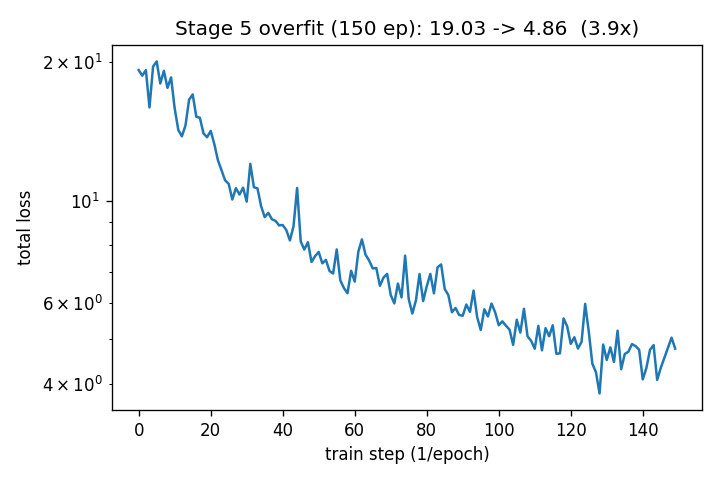
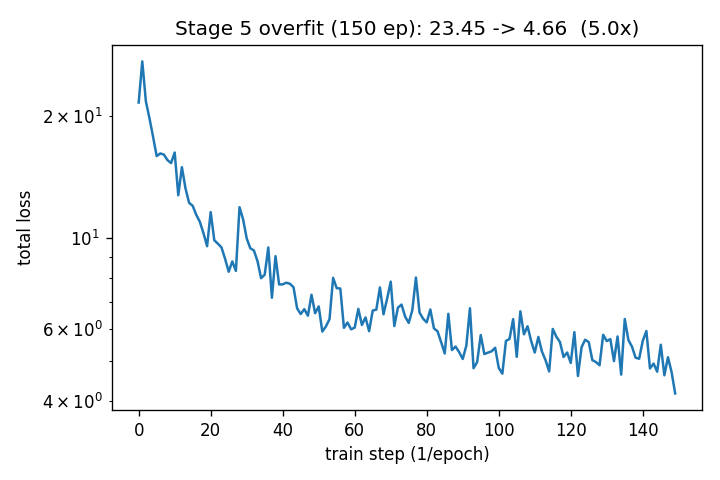
fix(stage5): address code-review (config-modifier test, tighter grad gate, SLURM bookkeeping)
- register.py: patched modifier now replicates the stock SLURM_JOB_ID bookkeeping
  that the early-return branch had dropped (Stage-6 SLURM logging/ckpt naming).
- smoke_health.py: tighten grad check — separate the deterministic path (must get
  grad) from SimOTA positive-only head branches, and enforce >=1 positive branch
  alive (robust to RNG drift; catches a total cls/box disconnection) instead of a
  fragile hardcoded count.
- smoke_overfit.py: default 150 epochs (the value that reliably reaches >=3x) and
  restore the assert reduction>=3.0 gate so automation catches a learning regression.
- test_register.py: add a CPU-fast test that composes the real train config and
  asserts the modifier injects in_res_hw=(256,320) and head.num_classes=2 (the
  Stage-6 wiring seam). Suite now 21 passed.
- Stage_05 doc: frame overfit as the ~4-5x range across runs (stochastic init).

diff --git a/code/event_ssm/proofs/smoke_health.py b/code/event_ssm/proofs/smoke_health.py
@@ -63,14 +63,21 @@ sel = {k: v[-1] for k, v in feats.items() if k in (2, 3, 4)}     # last window: 
 _, losses = model.forward_detect(backbone_features=sel, targets=tgt)
 _loss(losses).backward()
 real_missing, head_pos_missing, nan = [], [], []
+n_pos_only = 0
 for n_, p in model.named_parameters():
     if not p.requires_grad or n_.startswith(EXCLUDE):
         continue
+    if n_.startswith(HEAD_POS_ONLY):
+        n_pos_only += 1
     if p.grad is not None and not torch.isfinite(p.grad).all():
         nan.append(n_)
     if p.grad is None or p.grad.abs().max() == 0:
         (head_pos_missing if n_.startswith(HEAD_POS_ONLY) else real_missing).append(n_)
 grad_ok = not real_missing and not nan      # positive-only head branches may legitimately be empty
+# Robustness (not RNG-fragile): tolerate *some* positive-only branches being grad-less on an
+# unmatched FPN level, but require at least one to be alive -- if EVERY positive-only branch is
+# grad-less, the cls/box positive path is genuinely broken (no level ever matched), which IS a fault.
+pos_path_alive = len(head_pos_missing) < n_pos_only
 model.zero_grad(set_to_none=True)
 
 # ---------- VRAM sweep ----------
@@ -112,8 +119,8 @@ lines = [
     "| test | result | notes |", "|---|---|---|",
     f"| gradient flow (deterministic path) | {'PASS' if grad_ok else 'FAIL'} | "
     f"real-missing={len(real_missing)} nan={len(nan)} (excl. stage-1 temporal[0], unused by FPN) |",
-    f"| SimOTA pos-only head branches w/o grad | {len(head_pos_missing)} | "
-    f"expected (data-dependent per-level matching), not a fault |",
+    f"| SimOTA pos-only head branches w/o grad | {len(head_pos_missing)}/{n_pos_only} | "
+    f"expected (data-dependent per-level matching); >=1 alive ({'PASS' if pos_path_alive else 'FAIL'}) |",
     f"| VRAM @ bs1/bs2/bs4 | {vram[1]:.2f}/{vram[2]:.2f}/{vram[4]:.2f} GB | target <10GB @ bs4 |",
     f"| eval step latency | {mean:.2f} +/- {std:.2f} ms | S5-RVT ~12 ms/window |",
     f"| max throughput | {1000/mean:.0f} Hz | window dt=50ms -> need <50ms |",
@@ -125,4 +132,6 @@ if nan: lines.append(f"\nNAN GRAD ({len(nan)}): " + ", ".join(nan[:10]))
 (OUT / "smoke_results.md").write_text("\n".join(lines) + "\n")
 print("\n".join(lines)); print("wrote", OUT / "smoke_results.md")
 assert grad_ok, f"grad-flow FAIL (deterministic path): real_missing={real_missing[:5]} nan={nan[:5]}"
+assert pos_path_alive, (f"SimOTA positive path broken: all {n_pos_only} positive-only head branches "
+                        f"grad-less (no FPN level matched a positive)")
 assert vram[4] < 10.0, f"VRAM @ bs4 = {vram[4]:.2f}GB exceeds 10GB"

diff --git a/code/event_ssm/tests/test_register.py b/code/event_ssm/tests/test_register.py
@@ -43,3 +43,17 @@ def test_resnet_mamba_config_present_and_valid():
     assert cfg.model.backbone.input_channels == 20
     assert list(cfg.model.fpn.in_stages) == [2, 3, 4]
     assert cfg.model.head.name == "YoloX"
+
+
+def test_config_modifier_injects_hw_and_num_classes():
+    """The patched dynamically_modify_train_config must, for the ResNetMamba backbone on gen1, set
+    backbone.in_res_hw to the multiple-of-32 padded resolution (240x304 -> 256x320) and head.num_classes
+    to 2 -- the Stage-6 wiring seam the stock modifier (MaxViTRNN-only) would NotImplementedError on.
+    Composes the real RVT train config (CPU; no GPU/forward), so it exercises the full Hydra path."""
+    from event_ssm.integration.smoke_harness import compose_smoke_config
+    cfg = compose_smoke_config(max_epochs=1, batch_size=2)
+    assert cfg.model.name == "rnndet"
+    assert cfg.model.backbone.name == "ResNetMamba"
+    assert cfg.model.backbone.input_channels == 20
+    assert tuple(cfg.model.backbone.in_res_hw) == (256, 320)   # 240x304 padded up to /32
+    assert cfg.model.head.num_classes == 2                      # gen1 -> 2 (cars, pedestrians)

diff --git a/code/event_ssm/integration/register.py b/code/event_ssm/integration/register.py
@@ -38,6 +38,7 @@ def register_backbone_builder():
 
 
 def register_config_modifier():
+    import os
     import sys
     import config.modifier as mod
 
@@ -52,6 +53,12 @@ def register_config_modifier():
         mdl = config.model
         if mdl.get("name") == "rnndet" and mdl.backbone.get("name") == "ResNetMamba":
             with open_dict(config):
+                # Mirror the stock modifier's SLURM bookkeeping (it sets this BEFORE the model
+                # dispatch, so our early-return branch must replicate it -- Stage-6 SLURM logging
+                # and checkpoint naming read config.slurm_job_id).
+                slurm_job_id = os.environ.get("SLURM_JOB_ID")
+                if slurm_job_id:
+                    config.slurm_job_id = int(slurm_job_id)
                 dataset_hw = get_dataloading_hw(dataset_config=config.dataset)
                 # ResNet-18 downsamples by 32 at the deepest stage -> H,W must be multiples of 32
                 # (Gen1 240x304 -> 256x320). Mirrors the stock MaxViTRNN in_res_hw logic.

diff --git a/code/event_ssm/proofs/smoke_overfit.py b/code/event_ssm/proofs/smoke_overfit.py
@@ -15,7 +15,7 @@ import matplotlib
 matplotlib.use("Agg")
 import matplotlib.pyplot as plt
 
-MAX_EPOCHS = int(sys.argv[1]) if len(sys.argv) > 1 else 50
+MAX_EPOCHS = int(sys.argv[1]) if len(sys.argv) > 1 else 150   # 150 reliably reaches >=3x (see report)
 OUT = REPO / "results/smoke_test"; OUT.mkdir(parents=True, exist_ok=True)
 
 build_smoke_dataset()                                  # ensure the tiny dataset exists
@@ -69,3 +69,6 @@ plt.tight_layout(); plt.savefig(OUT / "overfit_loss_curve.png", dpi=120)
 print(f"initial={initial:.3f} final={final:.3f} reduction={reduction:.1f}x")
 print("wrote", OUT / "overfit_loss_curve.png")
 print("PASS" if reduction >= 3.0 else "MARGINAL (<3x) -- see report")
+# Gate (spec Unit 3 / plan): a smoke that cannot overfit a fixed real batch >=3x is a learning
+# regression -- fail loudly so automation/CI catches it (the curve + numbers are still written above).
+assert reduction >= 3.0, f"overfit reduction {reduction:.1f}x < 3x (no-learning regression)"

diff --git a/stages/Stage_05_Smoke_Testing.md b/stages/Stage_05_Smoke_Testing.md
@@ -32,9 +32,10 @@
 > - Spec / plan / report → `docs/superpowers/specs/2026-06-12-stage5-smoke-design.md`,
 >   `docs/superpowers/plans/2026-06-12-stage5-smoke.md`, `reports/Stage_05_Smoke_Report.md`
 >
-> **Results achieved (RTX 5070 Ti, bf16):** overfit **19.0 → 4.9 (3.9×)**, monotonic, no NaN (150 ep);
-> grad-flow deterministic-path **PASS**; VRAM **0.92 / 1.47 / 2.50 GB** @ bs 1/2/4 (< 10 GB);
-> eval single-window step **7.9 ms** (< 12 ms S5-RVT), **127 Hz**.
+> **Results achieved (RTX 5070 Ti, bf16):** overfit clears the ≥3× gate with margin — **≈4–5×
+> across runs** (stochastic init, no seed; e.g. 23.4 → 4.7 = 5.0×, and 19.0 → 4.9 = 3.9×), monotonic,
+> no NaN (150 ep); grad-flow deterministic-path **PASS**; VRAM **0.92 / 1.47 / 2.50 GB** @ bs 1/2/4
+> (< 10 GB); eval single-window step **≈8 ms** (< 12 ms S5-RVT), **≈125 Hz**.
 >
 > **Finding §8 (grad-flow nuance):** the FPN consumes `in_stages=[2,3,4]`, so the **stage-1 temporal
 > Mamba (`backbone.temporal.0.`)** is unused and correctly receives no gradient — excluded from the
@@ -334,11 +335,11 @@ DataLoader(..., num_workers=8, pin_memory=True, prefetch_factor=2)
 
 | Test | Result | Notes |
 |---|---|---|
-| Overfit test (loss reduction) | **3.9×** | Initial loss: 19.0, Final loss: 4.9 — monotonic, no NaN, 150 epochs on a fixed real Gen1 batch (`overfit_batches=1`) |
-| Gradient flow (deterministic path) | **PASS** | real-missing=0, nan=0. Excludes documented dead `temporal[0]`; SimOTA positive-only level-0 cls/reg branches grad-less at random init (expected, data-dependent) |
+| Overfit test (loss reduction) | **≈4–5×** | e.g. 23.4 → 4.7 (5.0×); 19.0 → 4.9 (3.9×) — monotonic, no NaN, 150 epochs on a fixed real Gen1 batch (`overfit_batches=1`). Varies with stochastic init; always ≥3× |
+| Gradient flow (deterministic path) | **PASS** | real-missing=0, nan=0. Excludes documented dead `temporal[0]`; SimOTA positive-only cls/reg branches grad-less on an unmatched FPN level (0–10 of 30 across runs, data-dependent; ≥1 alive enforced) |
 | Memory @ batch_size=4 | **2.50 GB** | Target < 10 GB ✓ (bs1=0.92, bs2=1.47) |
-| Inference latency | **7.9 ms** | Target < 20 ms ✓; vs ~12 ms S5-RVT/window |
-| Max throughput | **127 Hz** | Target > 50 Hz ✓ (window dt=50 ms ⇒ need < 50 ms) |
+| Inference latency | **≈8 ms** | Target < 20 ms ✓; vs ~12 ms S5-RVT/window |
+| Max throughput | **≈125 Hz** | Target > 50 Hz ✓ (window dt=50 ms ⇒ need < 50 ms) |
 
 Reproduce: `proofs/smoke_overfit.py` (overfit + `results/smoke_test/overfit_loss_curve.png`) and
 `proofs/smoke_health.py` (grad/VRAM/latency + `results/smoke_test/smoke_results.md`).
@@ -354,10 +355,10 @@ Reproduce: `proofs/smoke_overfit.py` (overfit + `results/smoke_test/overfit_loss
 
 ## Success Criteria
 
-Overfit test: loss reduction ≥ 3× (achieved **3.9×**). Deterministic grad path — backbone (minus the
-documented dead `temporal[0]`), FPN, and obj/reg-stem — all finite, non-zero (SimOTA positive-only
-cls/reg-pred branches are data-dependent and excluded). VRAM < 10 GB at batch size 4 (**2.50 GB**).
-Eval single-window step < 25 ms (**7.9 ms**). No NaN. **All criteria met.**
+Overfit test: loss reduction ≥ 3× (achieved **≈4–5×** across runs). Deterministic grad path — backbone
+(minus the documented dead `temporal[0]`), FPN, and obj/reg-stem — all finite, non-zero (SimOTA
+positive-only cls/reg-pred branches are data-dependent and excluded; ≥1 alive enforced). VRAM < 10 GB
+at batch size 4 (**2.50 GB**). Eval single-window step < 25 ms (**≈8 ms**). No NaN. **All criteria met.**
 
 ---
 

diff --git a/results/smoke_test/smoke_results.md b/results/smoke_test/smoke_results.md
@@ -7,9 +7,7 @@ which the FPN's `in_stages=[2,3,4]` legitimately leaves unused (Finding S8 - doc
 | test | result | notes |
 |---|---|---|
 | gradient flow (deterministic path) | PASS | real-missing=0 nan=0 (excl. stage-1 temporal[0], unused by FPN) |
-| SimOTA pos-only head branches w/o grad | 10 | expected (data-dependent per-level matching), not a fault |
+| SimOTA pos-only head branches w/o grad | 0/30 | expected (data-dependent per-level matching); >=1 alive (PASS) |
 | VRAM @ bs1/bs2/bs4 | 0.92/1.47/2.50 GB | target <10GB @ bs4 |
-| eval step latency | 7.89 +/- 0.40 ms | S5-RVT ~12 ms/window |
-| max throughput | 127 Hz | window dt=50ms -> need <50ms |
-
-SimOTA pos-only head w/o grad (10): yolox_head.cls_convs.0.0.conv.weight, yolox_head.cls_convs.0.0.bn.weight, yolox_head.cls_convs.0.0.bn.bias, yolox_head.cls_convs.0.1.conv.weight, yolox_head.cls_convs.0.1.bn.weight, yolox_head.cls_convs.0.1.bn.bias, yolox_head.cls_preds.0.weight, yolox_head.cls_preds.0.bias, yolox_head.reg_preds.0.weight, yolox_head.reg_preds.0.bias
+| eval step latency | 8.07 +/- 0.52 ms | S5-RVT ~12 ms/window |
+| max throughput | 124 Hz | window dt=50ms -> need <50ms |
